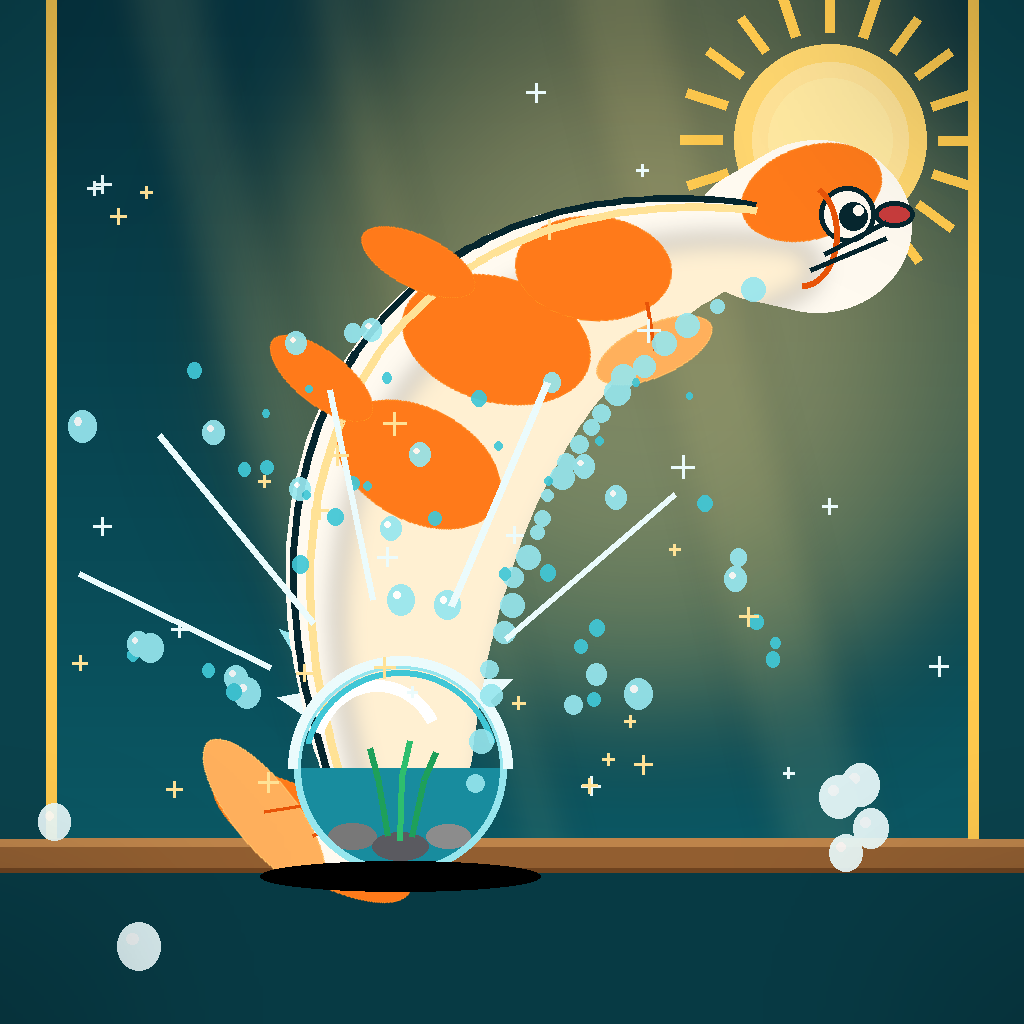
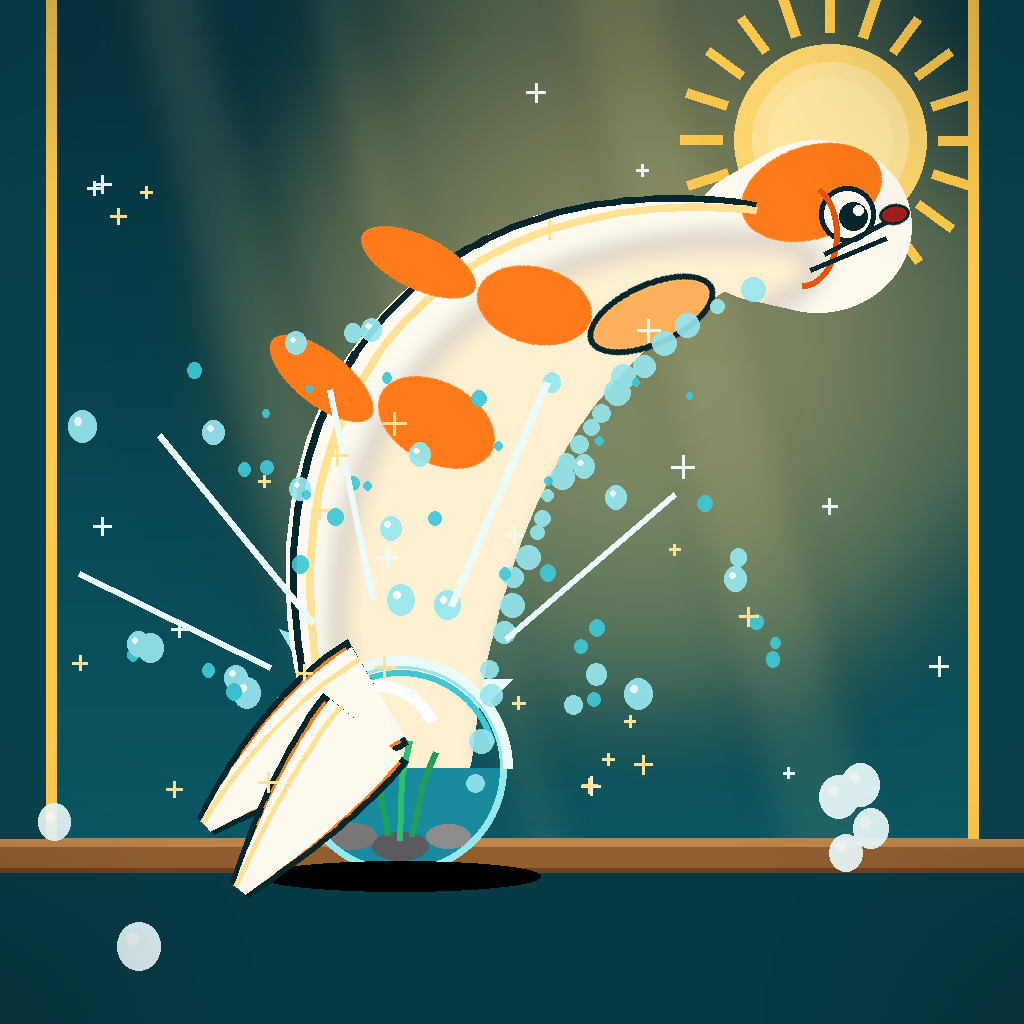
ai-excited-01 v2: fix tail/body/pectoral/mouth craft
- Tail fin now drapes over the bowl rim, rooted in the body's lower
  end: two flowing forked lobes (white base, orange rim, INK outline,
  gold rim-light), replacing the detached slipper below the sill.
- Body patches: 3 big ovals -> head cap + 2 smaller patches, more
  white showing; no more caterpillar segmentation.
- Pectoral fin overlaps the body's lower edge with an INK outline
  (was floating free below the head).
- Mouth: smaller, darker red, angled with the head (was red lips).
- Bowl, sun, droplets, palette, composition, 1024x1024 unchanged.
- compose.py deterministic (two runs byte-identical);
  main.ts exit 0, out/entry.png byte-identical to entry.png.

diff --git a/compose.py b/compose.py
@@ -70,6 +70,27 @@ def petal(draw, tip, base, w, fill):
     draw.polygon([base, mid, tip, mid2], fill=fill)
 
 
+def ribbon_poly(p0, p1, p2, w0, w1, steps=24):
+    """Polygon for a tapered ribbon along a quadratic bezier.
+
+    Returns left-edge points (t=0..1) followed by right-edge points
+    reversed, so the first (steps+1) entries are the upper/left edge.
+    """
+    left, right = [], []
+    for i in range(steps + 1):
+        t = i / steps
+        x, y = bezier(p0, p1, p2, t)
+        tx, ty = tangent(p0, p1, p2, t)
+        l = math.hypot(tx, ty) or 1
+        nx, ny = -ty / l, tx / l
+        # width stays near w0 for most of the length, then tapers fast near
+        # the tip: a full, rounded fin lobe, not a straight triangle
+        w = w0 + (w1 - w0) * t ** 1.7
+        left.append((x + nx * w, y + ny * w))
+        right.append((x - nx * w, y - ny * w))
+    return left + right[::-1]
+
+
 def rot_ellipse(base_img, cx, cy, rx, ry, angle_deg, fill):
     """Paste a rotated ellipse onto base_img (RGB), returns new image."""
     tmp = Image.new("RGBA", (W, H), (0, 0, 0, 0))
@@ -148,14 +169,9 @@ def radius(t):
     return 32 + 88 * math.sin(math.pi * min(1.0, 0.12 + 0.88 * t)) ** 0.9
 
 
-# tail fin first (behind the body): two flowing lobes, rotated ellipses
-img = rot_ellipse(img, 312, 836, 112, 40, -30, ORANGE)
-img = rot_ellipse(img, 346, 856, 90, 28, -12, WHITE)
-img = rot_ellipse(img, 264, 812, 90, 32, -52, ORANGE_L)
-d = ImageDraw.Draw(img)
-d.line([(400, 790), (312, 836)], fill=ORANGE_D, width=4)
-d.line([(400, 790), (346, 856)], fill=ORANGE_D, width=4)
-d.line([(400, 790), (264, 812)], fill=ORANGE_D, width=4)
+# NOTE: the tail fin is drawn AFTER the bowl (section 9b) so it drapes over
+# the bowl rim and visibly connects to the body — v1's tail (three
+# ellipses below the sill) read as a detached slipper and is gone.
 
 # body silhouette mask
 mask = Image.new("L", (W, H), 0)
@@ -184,9 +200,9 @@ for i, (x, y) in enumerate(pts):
     ellipse(shd, x + 30, y + 34, r * 0.8, r * 0.78, fill=CREAM + (110,))
 shade = shade.filter(ImageFilter.GaussianBlur(12))
 skin = Image.alpha_composite(skin.convert("RGBA"), shade).convert("RGB")
-# three orange patches on the back + orange cap on the head
-for t, rx, ry, rot in ((0.38, 88, 56, -28), (0.60, 96, 62, -16),
-                       (0.78, 78, 52, -4)):
+# two SMALLER orange patches on the back + orange cap on the head
+# (v1's three big ovals chopped the body into caterpillar segments)
+for t, rx, ry, rot in ((0.45, 62, 40, -28), (0.68, 58, 38, -14)):
     x, y = pts[int(t * N)]
     img2 = rot_ellipse(skin, x, y - 16, rx, ry, rot, ORANGE)
     skin = img2
@@ -228,19 +244,24 @@ for t, ln, ang in ((0.45, 80, -38), (0.62, 88, -26)):
     img = rot_ellipse(img, x + nx * (r + ln * 0.12), y + ny * (r + ln * 0.12),
                       62, 26, ang, ORANGE)
     d = ImageDraw.Draw(img)
+# pectoral fin: overlaps the body's lower edge (v1 floated free below it);
+# INK underlay gives it the same black outline as the body
 px, py = pts[int(0.86 * N)]
-img = rot_ellipse(img, px + 8, py + 88, 62, 26, 24, ORANGE_L)
+img = rot_ellipse(img, px + 5, py + 52, 68, 32, 24, INK)
+img = rot_ellipse(img, px + 5, py + 52, 62, 26, 24, ORANGE_L)
 d = ImageDraw.Draw(img)
-d.line([(px, py + 40), (px + 8, py + 88)], fill=ORANGE_D, width=4)
 
 # ---- 8. head details: eye, mouth, gill, barbels -------------------------
 ex, ey = head_c[0] + 30, head_c[1] - 12
 ellipse(d, ex, ey, 28, 28, fill=WHITE, outline=INK, width=5)
 ellipse(d, ex + 6, ey + 2, 14, 14, fill=INK)
 ellipse(d, ex + 11, ey - 4, 5, 5, fill=WHITE)
-# open joyful mouth at the front tip
+# small dark-red fish mouth at the front tip, angled with the head
+# (v1's big bright-red oval read as lips); INK underlay = outline
 mx, my = head_c[0] + ux * 78, head_c[1] + uy * 78
-ellipse(d, mx, my, 20, 13, fill=(200, 60, 60), outline=INK, width=5)
+img = rot_ellipse(img, mx, my, 15, 10, 9, INK)
+img = rot_ellipse(img, mx, my, 12, 7, 9, (160, 30, 30))
+d = ImageDraw.Draw(img)
 # gill curve
 d.arc([head_c[0] - 52, head_c[1] - 46, head_c[0] + 22, head_c[1] + 62],
       start=300, end=90, fill=ORANGE_D, width=6)
@@ -268,6 +289,25 @@ ellipse(d, BX, 876, 140, 15, fill=(0, 0, 0))
 # foam ring at the bowl rim where the koi bursts out
 d.arc([BX - BR - 6, BY - BR - 6, BX + BR + 6, BY + BR + 6],
       start=180, end=360, fill=FOAM, width=10)
+
+# ---- 9b. tail fin — draped OVER the bowl rim, rooted in the body ---------
+# (v1's tail sat below the sill, detached like a slipper). Two flowing
+# lobes emerge from the body's lower end, cross the bowl's left rim and
+# end in a fork below the sill: white base, orange rim, INK outline,
+# gold rim-light on the upper edge — the body's own visual language.
+def tail_lobe(p0, p1, p2, w0, w1):
+    n = 25  # steps+1: first half of a ribbon_poly is the upper edge
+    outer = ribbon_poly(p0, p1, p2, w0 + 9, w1 + 5)
+    inner = ribbon_poly(p0, p1, p2, w0, w1)
+    d.polygon(outer, fill=ORANGE, outline=INK, width=6)
+    d.polygon(inner, fill=WHITE)
+    # gold rim-light along the upper edge, inset toward the centreline
+    inset = ribbon_poly(p0, p1, p2, w0 * 0.72, w1 * 0.72)[:n]
+    d.line(inset, fill=GOLD_L, width=5, joint="curve")
+
+
+tail_lobe((378, 692), (292, 742), (206, 826), 52, 7)
+tail_lobe((366, 728), (302, 808), (240, 890), 46, 7)
 
 # ---- 10. water trailing the koi + droplets toward the viewer -------------
 drop_layer = Image.new("RGBA", (W, H), (0, 0, 0, 0))
